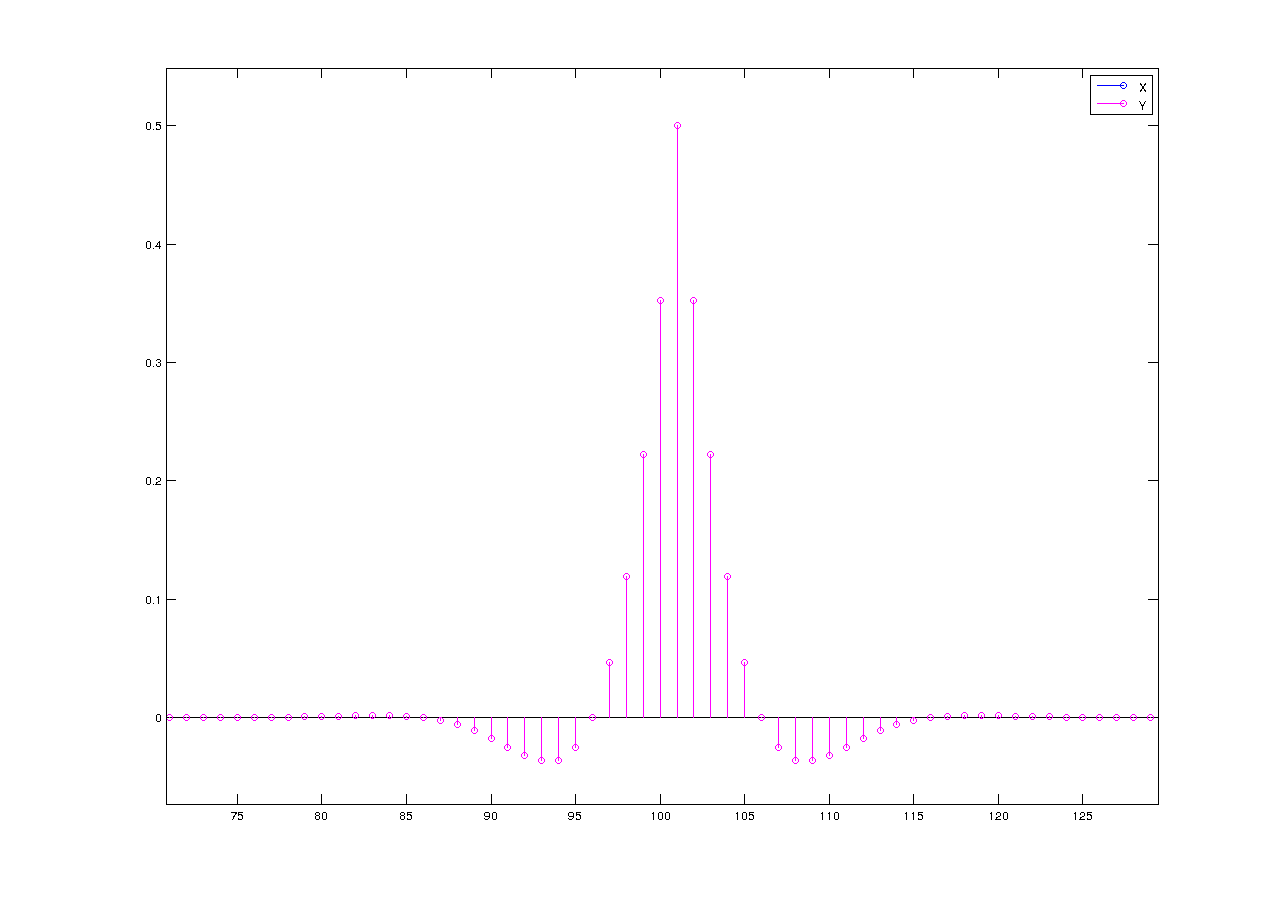
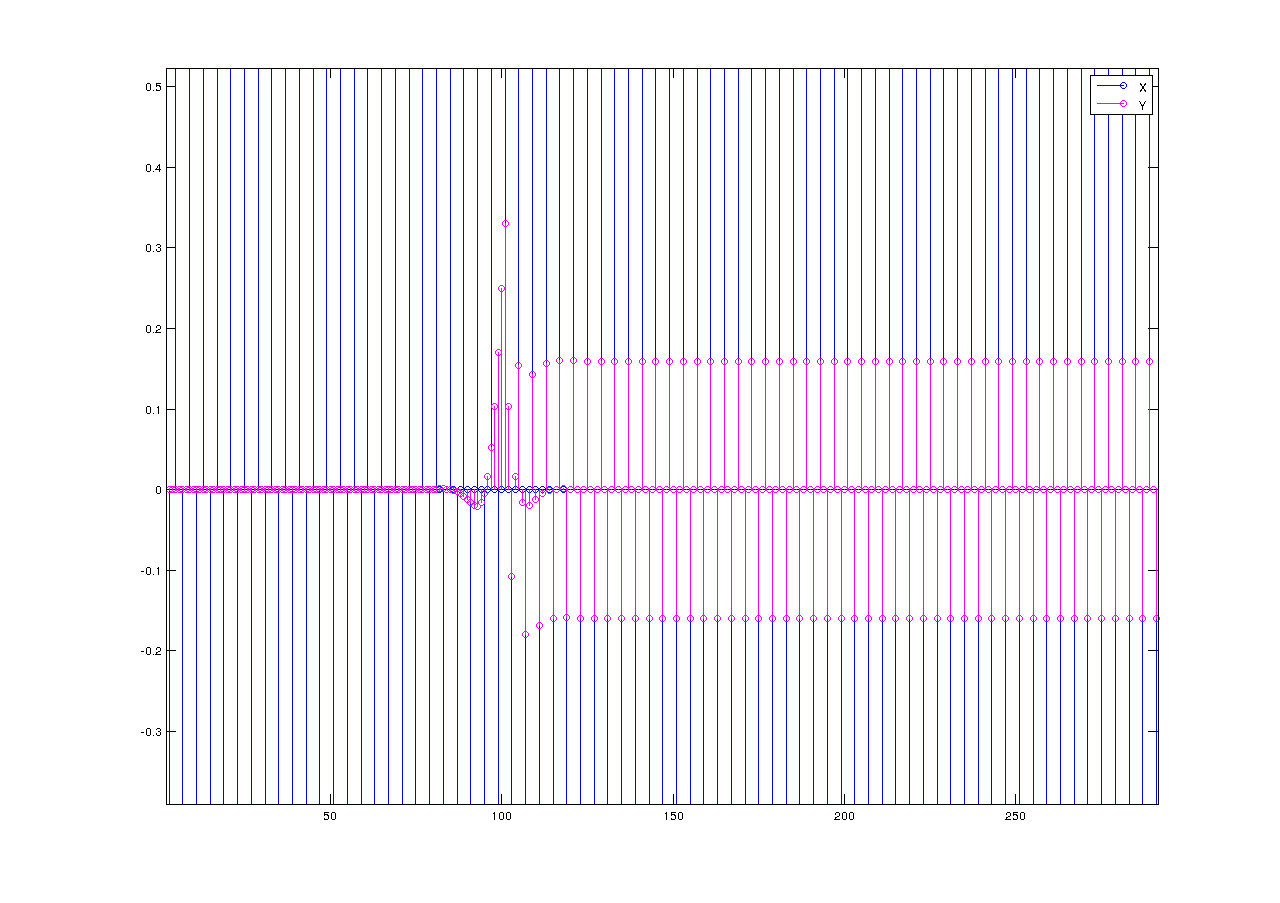
done plots a, b

diff --git a/2-frequency_domain/efc2.m b/2-frequency_domain/efc2.m
@@ -1,37 +1,39 @@
 x = @(n,w) cos(n*w);
 N = 1000;
-vec = [];
 
-% % a)
-% w = pi/2;
-% for i = 0:N,
-%     X = [vec; x(i,w)];
-% end;
-% Y = sistema_desconhecido(X)
-% stem(X)
-% hold on
-% stem(Y, 'm')
-% legend('X', 'Y')
-% hold off
+% a)
+w = pi/2;
+X = [];
+for i = 0:N,
+    X(i+1) = x(i,w);
+end;
+Y = sistema_desconhecido(X)
+stem(X)
+hold on
+stem(Y, 'm')
+legend('X', 'Y')
+hold off
 
 
-% % b)
-% w = pi/200;
-% for i = 0:N,
-%     X = [vec; x(i,w)];
-% end;
-% Y = sistema_desconhecido(X)
-% stem(Y)
-% hold on
-% 
-% w = pi/20;
-% for i = 0:N,
-%     X = [vec; x(i,w)];
-% end;
-% Y = sistema_desconhecido(X)
-% stem(Y, 'm')
-% legend('w = pi/200', 'w = pi/20')
-% hold off
+% b)
+w = pi/200;
+X = [];
+for i = 0:N,
+    X(i+1) = x(i,w);
+end;
+Y = sistema_desconhecido(X)
+stem(Y)
+hold on
+
+w = pi/20;
+X = [];
+for i = 0:N,
+    X(i+1) = x(i,w);
+end;
+Y = sistema_desconhecido(X)
+stem(Y, 'm')
+legend('w = pi/200', 'w = pi/20')
+hold off
 
 % % c)
 % 
